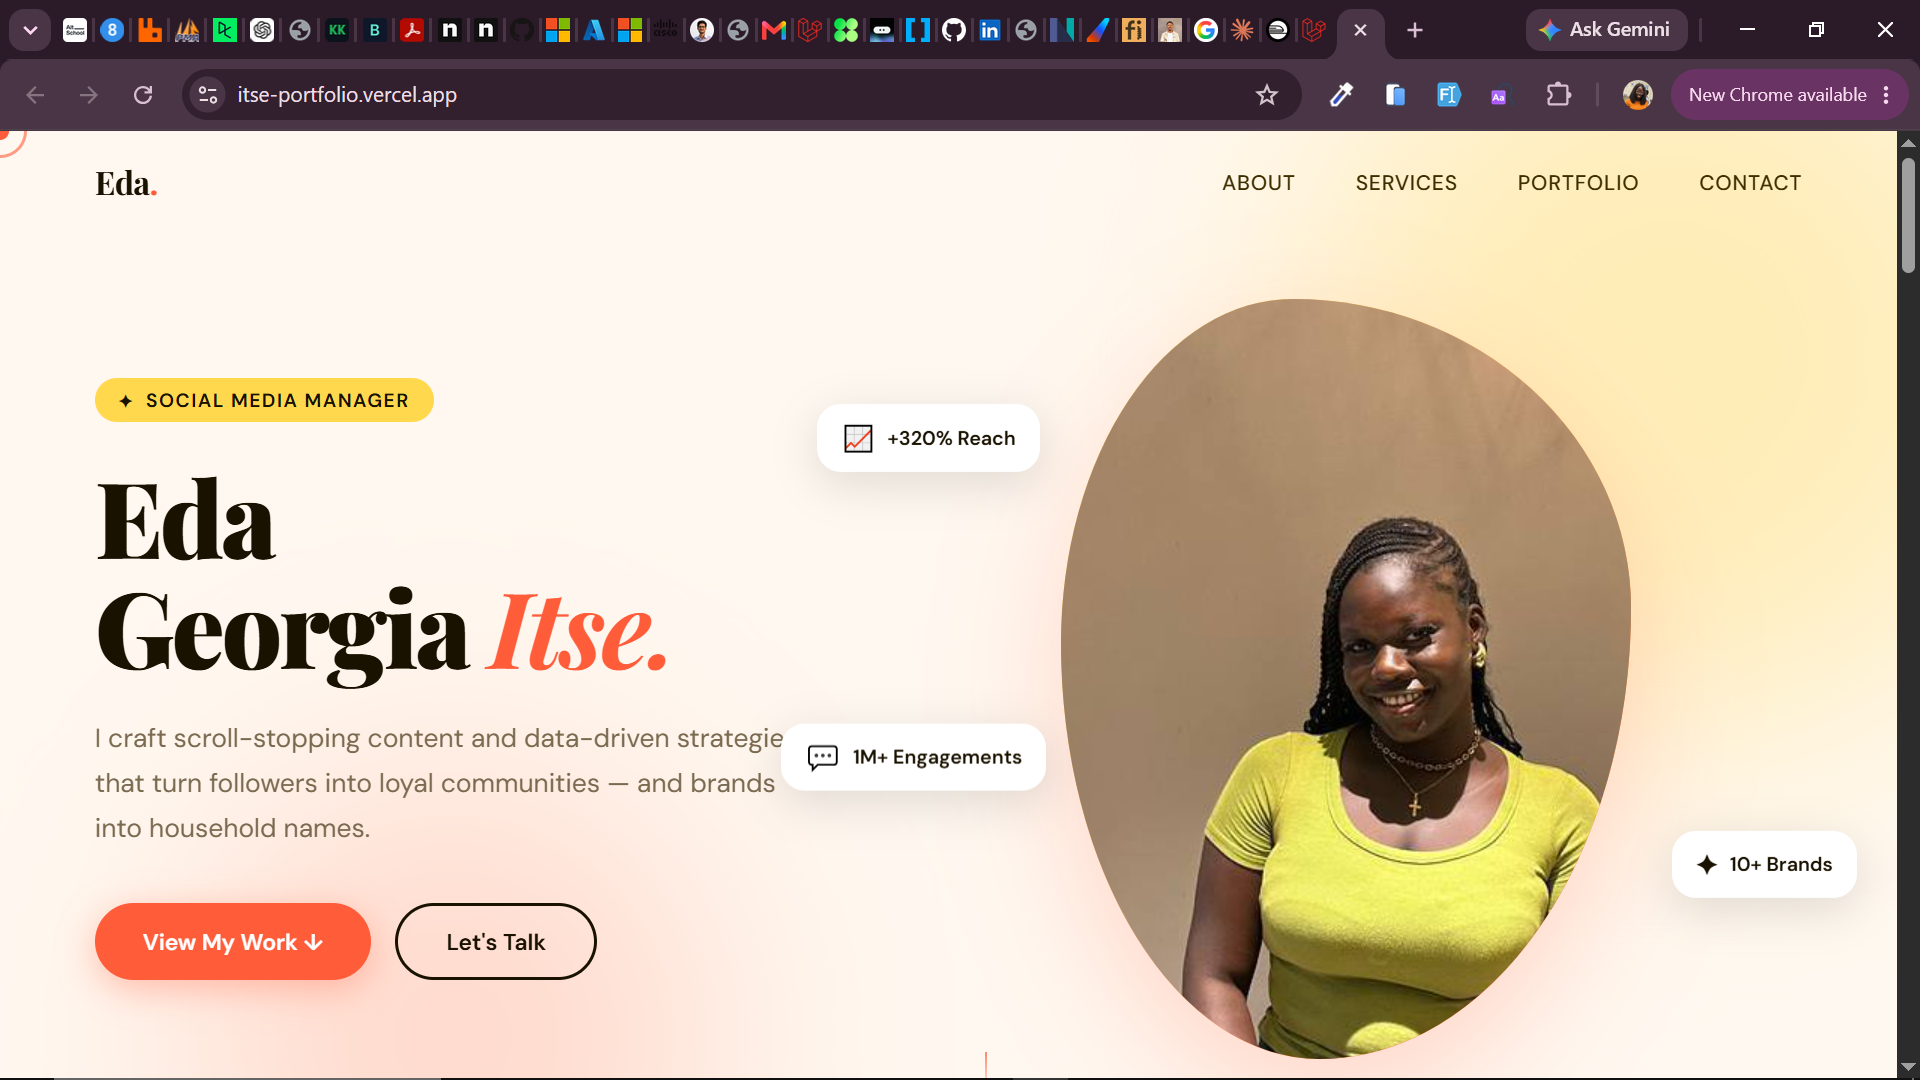
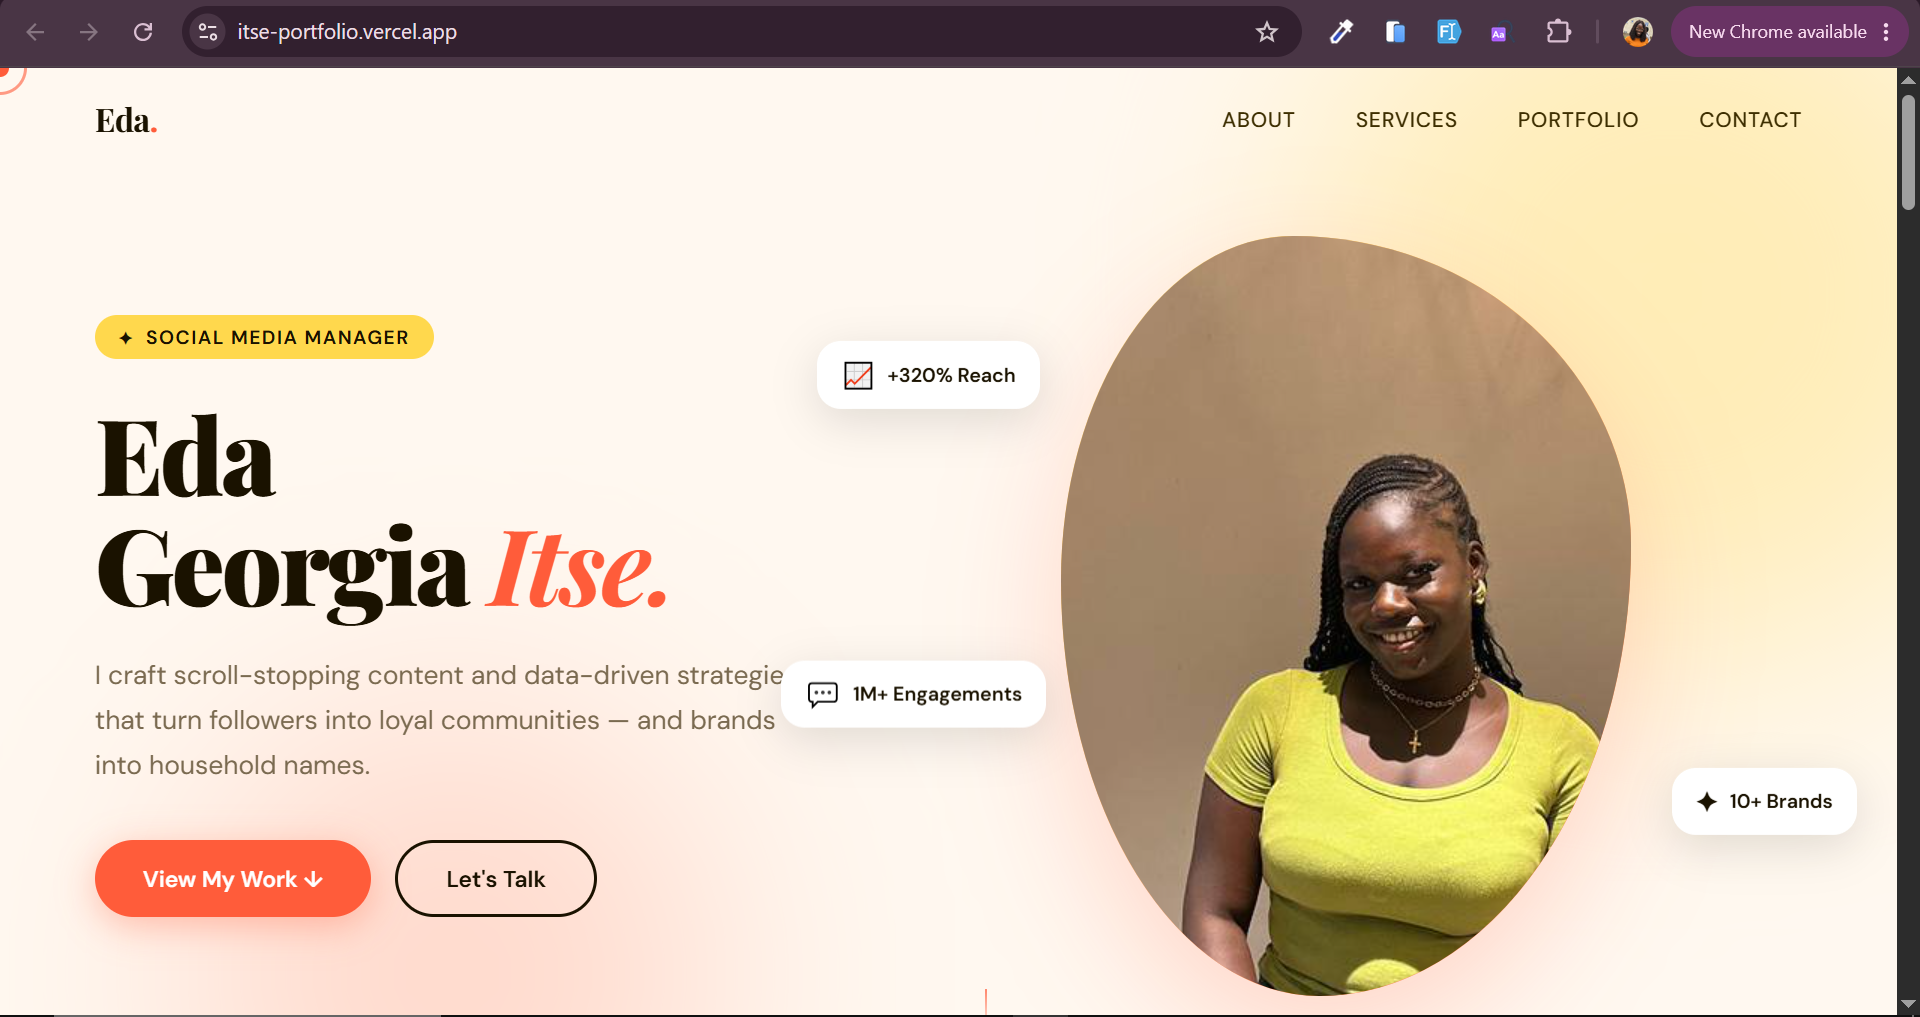
fixed errors

diff --git a/src/App.tsx b/src/App.tsx
@@ -8,6 +8,7 @@ import RoleMarquee from './components/portfolio/role-marquee';
 import ScrollToTop from './components/portfolio/scroll-to-top';
 import SkillsSection from './components/portfolio/skills-section';
 import TerminalWidget from './components/portfolio/terminal-widget';
+import Signature from './components/portfolio/signature';
 import ThemeToggle from './components/theme-toggle';
 import { motion } from 'motion/react';
 
@@ -86,17 +87,15 @@ export default function App() {
                         <div className="grid grid-cols-1 items-start gap-6 md:grid-cols-[1.3fr_1fr]">
                             <div className="relative z-10">
                                 <p className="font-mono text-lg text-accent-500">Hi, I'm</p>
-                                <h1 className="mt-1 font-display text-4xl leading-none font-bold md:text-5xl">
+                                <h1 className="mt-2 font-display text-4xl leading-none font-bold md:text-5xl">
                                     Cynthia
                                 </h1>
-                                <p className="mt-4 max-w-md text-lg text-neutral-600 dark:text-neutral-400">
+                                <p className="mt-6 max-w-md text-lg text-neutral-600 dark:text-neutral-400">
                                     I build{' '}
                                     <span className="font-medium text-accent-500">
-                                        digital realities that work
+                                        thoughtful digital experiences from the ground up
                                     </span>{' '}
-                                    — turning ideas into fast, dependable web
-                                    products with Laravel and React, down to the
-                                    small details most people skip.
+                                    — from clean, responsive interfaces to reliable systems behind them. I work with React, Tailwind CSS, and Laravel, and I’m passionate about creating technology that is useful, secure, and built to last.
                                 </p>
                                 <div className="mt-8 flex gap-4">
                                     
@@ -113,6 +112,7 @@ export default function App() {
                                     </a>
                                 </div>
                                 <RoleMarquee />
+                                <Signature className="mt-10 h-20 w-72 text-accent-500" />
                             </div>
 
                             <div className="relative z-10 flex justify-center">
@@ -135,35 +135,32 @@ export default function App() {
                             </div>
 
                             <div className="space-y-5 text-neutral-600 dark:text-neutral-400">
-                                <p>
-                                    I'm a final-year Computer Science student at
-                                    Edo State University, Iyahmo, based in
-                                    Lagos, Nigeria. Most of my time goes into
-                                    building things end-to-end — Laravel on the
-                                    backend, React on the front, and enough
-                                    curiosity about networking and systems
-                                    design to actually understand what's
-                                    happening underneath.
-                                </p>
-                                <p>
-                                    Right now I'm deep in my final-year project,{' '}
-                                    <span className="font-medium text-neutral-900 dark:text-neutral-100">
-                                        CampusSkillNet
-                                    </span>{' '}
-                                    — a university-exclusive skill and job
-                                    marketplace built to connect students with
-                                    real opportunities on campus. It's taught me
-                                    more about shipping something real than any
-                                    single course has.
-                                </p>
-                                <p>
-                                    Outside of coursework, I care about the
-                                    parts of a product most people don't notice
-                                    until they're missing — the loading state
-                                    that doesn't jar, the form that tells you
-                                    exactly what went wrong, the page that still
-                                    feels fast on a bad connection.
-                                </p>
+                               <p>
+    I'm a Computer Science graduate based in Warri, Nigeria, with a
+    passion for building practical, reliable digital experiences. I work
+    across the stack with React, Tailwind CSS, and Laravel, while
+    exploring cybersecurity, networking, and the systems that make
+    technology work underneath.
+</p>
+
+<p>
+    One of my biggest projects is{' '}
+    <span className="font-medium text-neutral-900 dark:text-neutral-100">
+        CampusSkillNet
+    </span>{' '}
+    — a university-focused skill and job marketplace designed to connect
+    students with real opportunities within their campus community.
+    Building it taught me how to take an idea from a concept to a
+    functional product and everything in between.
+</p>
+
+<p>
+    I care about the details that make technology feel effortless — a
+    responsive interface, a smooth user experience, meaningful error
+    handling, reliable functionality, and security considered from the
+    start. I'm constantly learning, experimenting, and looking for better
+    ways to build technology that is both useful and secure.
+</p>
                             </div>
                         </div>
                     </Container>

diff --git a/src/components/portfolio/signature.tsx b/src/components/portfolio/signature.tsx
@@ -1,0 +1,45 @@
+import { motion } from 'motion/react';
+
+export default function Signature({ className = '' }: { className?: string }) {
+    return (
+        <svg
+            viewBox="0 0 320 100"
+            className={className}
+            xmlns="http://www.w3.org/2000/svg"
+        >
+            <defs>
+                <clipPath id="signature-reveal">
+                    <motion.rect
+                        x="0"
+                        y="0"
+                        height="100"
+                        initial={{ width: 0 }}
+                        animate={{ width: 320 }}
+                        transition={{ duration: 1.8, ease: 'easeInOut', delay: 0.4 }}
+                    />
+                </clipPath>
+            </defs>
+
+            <text
+                x="8"
+                y="68"
+                fontFamily="'Dancing Script', cursive"
+                fontWeight="700"
+                fontSize="60"
+                className="fill-neutral-900 dark:fill-neutral-100"
+                clipPath="url(#signature-reveal)"
+            >
+                Cynthia
+            </text>
+
+            <motion.circle
+                r="4"
+                className="fill-accent-500"
+                cy="55"
+                initial={{ cx: 0, opacity: 1 }}
+                animate={{ cx: 300, opacity: [1, 1, 0] }}
+                transition={{ duration: 1.8, ease: 'easeInOut', delay: 0.4 }}
+            />
+        </svg>
+    );
+}

diff --git a/index.html b/index.html
@@ -7,7 +7,7 @@
     <title>myportfolio-react</title>
     <link rel="preconnect" href="https://fonts.googleapis.com">
     <link rel="preconnect" href="https://fonts.gstatic.com" crossorigin>
-    <link href="https://fonts.googleapis.com/css2?family=Unbounded:wght@400;600;700;800&family=IBM+Plex+Sans:wght@400;500;600&display=swap" rel="stylesheet">
+    <link href="https://fonts.googleapis.com/css2?family=Unbounded:wght@400;600;700;800&family=IBM+Plex+Sans:wght@400;500;600&family=Dancing+Script:wght@600;700&display=swap" rel="stylesheet">
   </head>
   <body>
     <div id="root"></div>

diff --git a/src/components/portfolio/projects-section.tsx b/src/components/portfolio/projects-section.tsx
@@ -20,7 +20,7 @@ const projects: Project[] = [
             'A university-exclusive skill and job marketplace connecting students with real opportunities on campus — from vendors selling products to students offering services. My final-year project.',
         stack: ['Laravel', 'MySQL', 'Blade/React'],
         github: 'https://github.com/Edacynthia/Campus-skill-marketplace',
-        image: '/images/projects/campusskillnet.png',
+        image: '/images/projects/Screenshot (728).png',
         size: 'md:col-span-2 md:row-span-2',
     },
     {

diff --git a/src/vite-env.d.ts b/src/vite-env.d.ts
@@ -1,0 +1,1 @@
+/// <reference types="vite/client" />
